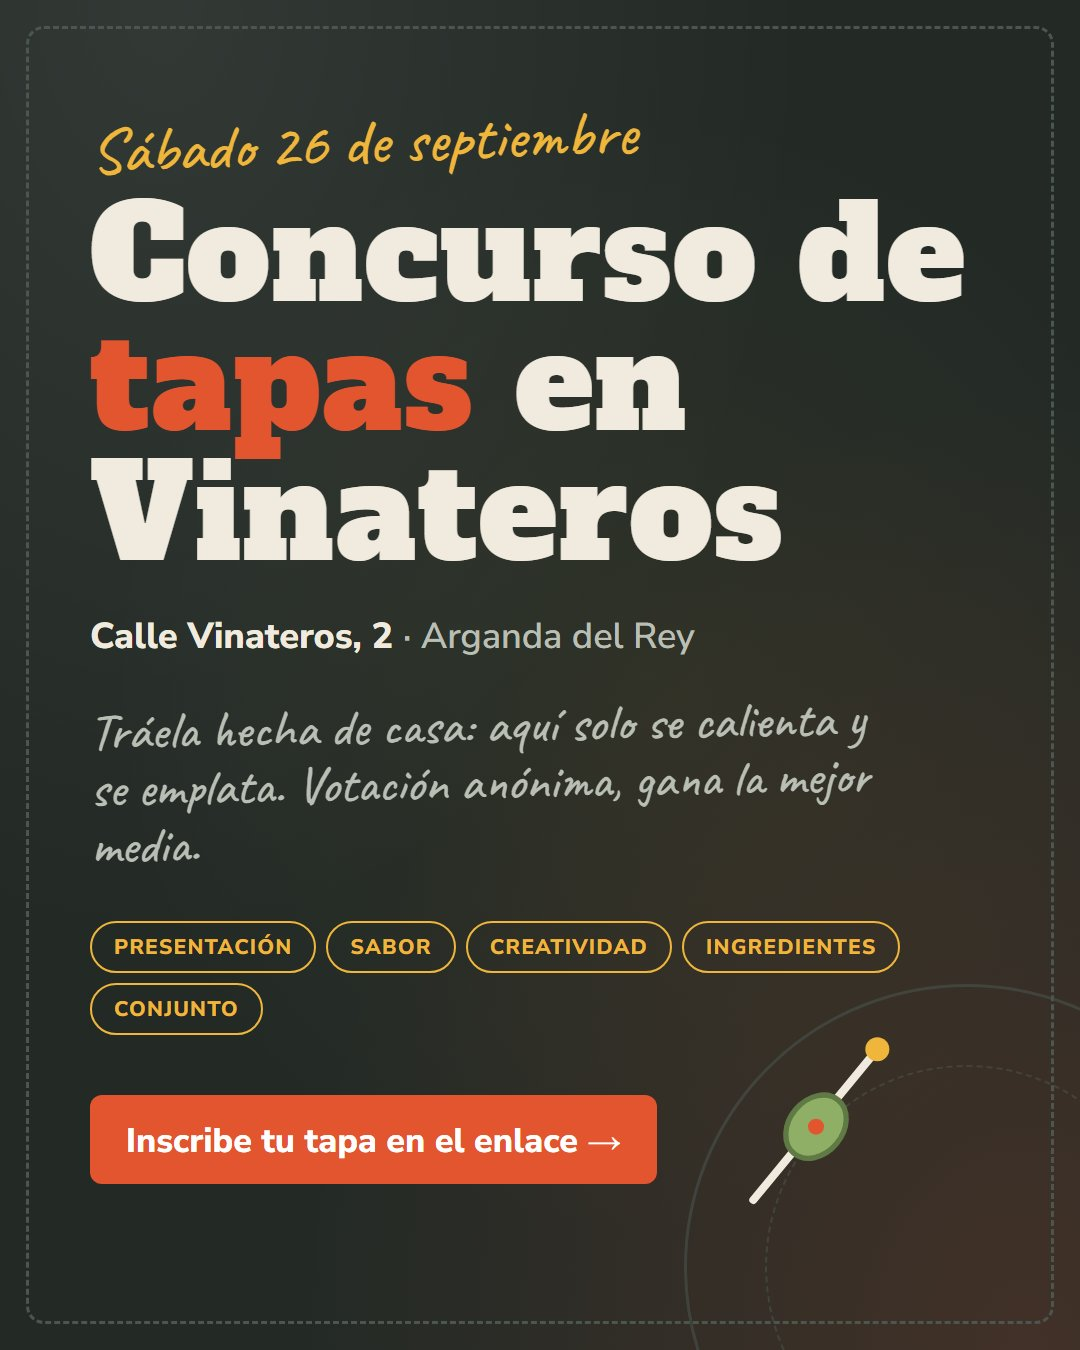
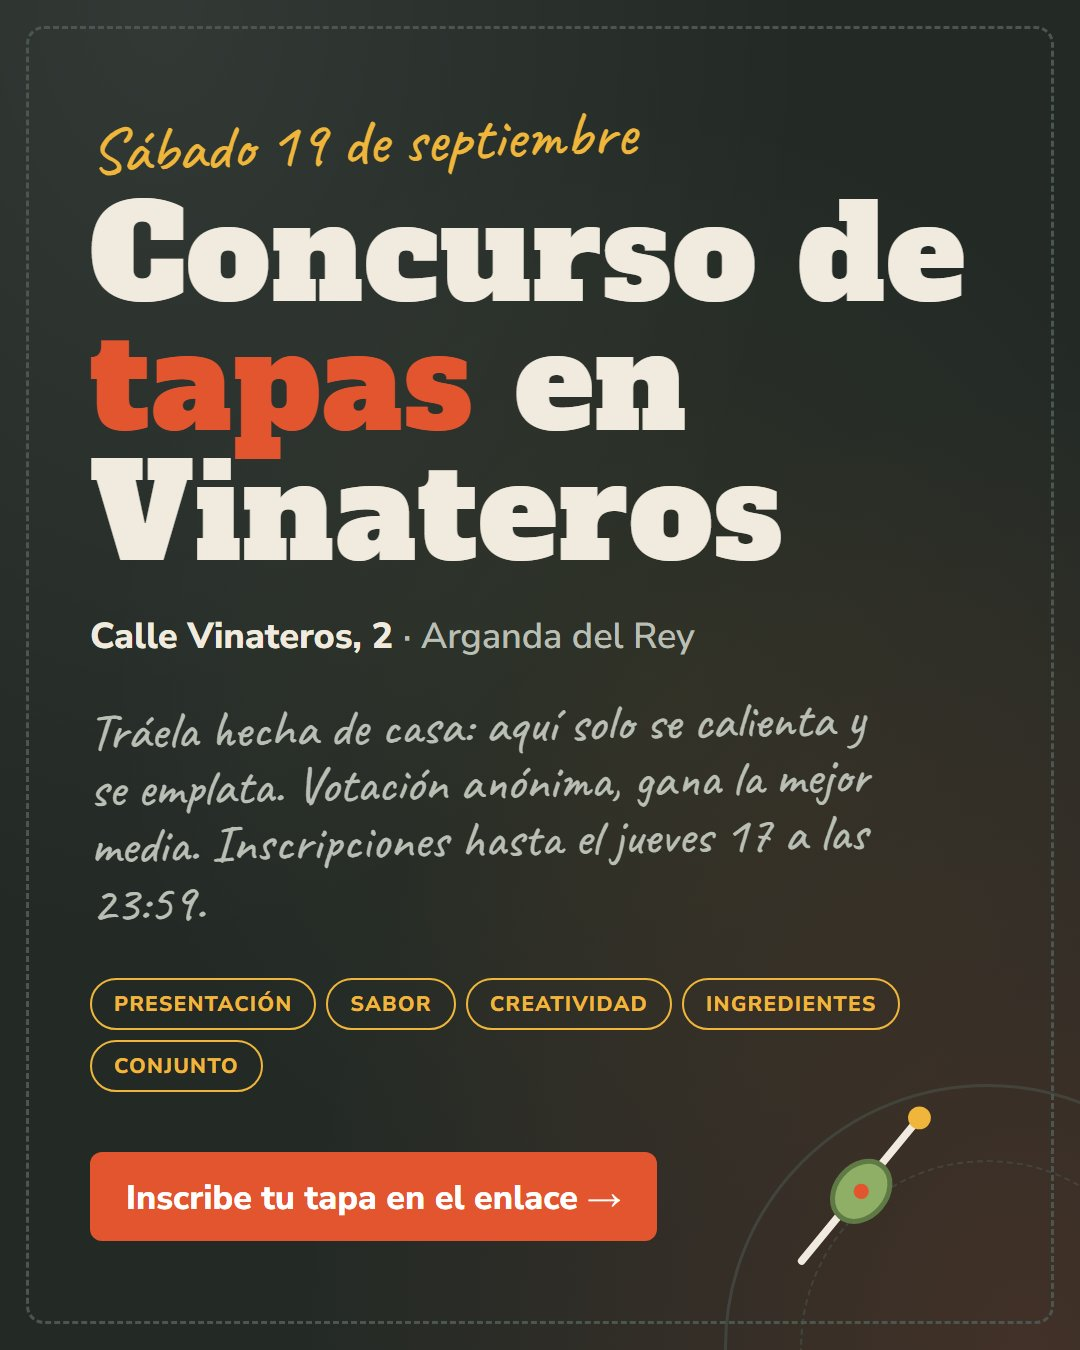
Fecha: sábado 19 de septiembre; inscripciones hasta el jueves 17 a las 23:59

diff --git a/index.html b/index.html
@@ -4,11 +4,11 @@
 <meta charset="utf-8">
 <meta name="viewport" content="width=device-width, initial-scale=1, viewport-fit=cover">
 <title>Tapas en Vinateros</title>
-<meta name="description" content="Sábado 26 de septiembre en Calle Vinateros, 2 (Arganda del Rey). Inscribe tu tapa, vota de forma anónima y descubre la ganadora.">
+<meta name="description" content="Sábado 19 de septiembre en Calle Vinateros, 2 (Arganda del Rey). Inscribe tu tapa, vota de forma anónima y descubre la ganadora.">
 <meta property="og:type" content="website">
 <meta property="og:locale" content="es_ES">
 <meta property="og:site_name" content="Tapas en Vinateros">
-<meta property="og:title" content="Concurso de tapas en Vinateros · Sábado 26 de septiembre">
+<meta property="og:title" content="Concurso de tapas en Vinateros · Sábado 19 de septiembre">
 <meta property="og:description" content="Calle Vinateros, 2 · Arganda del Rey. Trae tu tapa hecha de casa, inscríbela aquí y vota. Gana la mejor media.">
 <meta property="og:url" content="https://victormendezrodriguez10.github.io/concurso-tapas/">
 <meta property="og:image" content="https://victormendezrodriguez10.github.io/concurso-tapas/flyer.jpg">
@@ -16,10 +16,10 @@
 <meta property="og:image:type" content="image/jpeg">
 <meta property="og:image:width" content="1200">
 <meta property="og:image:height" content="630">
-<meta property="og:image:alt" content="Concurso de tapas en Vinateros, sábado 26 de septiembre">
+<meta property="og:image:alt" content="Concurso de tapas en Vinateros, sábado 19 de septiembre">
 <meta name="twitter:card" content="summary_large_image">
 <meta name="twitter:title" content="Concurso de tapas en Vinateros">
-<meta name="twitter:description" content="Sábado 26 de septiembre · Calle Vinateros, 2 · Inscribe tu tapa y vota.">
+<meta name="twitter:description" content="Sábado 19 de septiembre · Calle Vinateros, 2 · Inscribe tu tapa y vota.">
 <meta name="twitter:image" content="https://victormendezrodriguez10.github.io/concurso-tapas/flyer.jpg">
 <link rel="preconnect" href="https://fonts.googleapis.com">
 <link rel="preconnect" href="https://fonts.gstatic.com" crossorigin>
@@ -216,7 +216,7 @@
 <body>
 <div class="app">
   <header class="cabecera">
-    <span class="eyebrow" id="cab-fecha">Sábado 26 de septiembre</span>
+    <span class="eyebrow" id="cab-fecha">Sábado 19 de septiembre</span>
     <h1>Concurso de <em>tapas</em> en Vinateros</h1>
     <p class="sub">Calle Vinateros, 2 · Arganda del Rey <strong id="cab-hora"></strong></p>
   </header>
@@ -233,7 +233,7 @@
       <h2>Las normas</h2>
       <ol class="normas">
         <li><span class="n">1</span><div><b>Trae tu tapa hecha de casa.</b> Solo puede faltarle calentarla y emplatarla. Aquí hay horno y microondas, no cocina para empezar de cero.</div></li>
-        <li><span class="n">2</span><div><b>Inscribe tu plato aquí antes del día 26</b> con tu nombre, cómo lo presentas y una foto. Las tapas quedan en secreto: nadie las ve hasta que el anfitrión dé comienzo al concurso.</div></li>
+        <li><span class="n">2</span><div><b>Inscribe tu plato aquí antes del jueves 17 a las 23:59</b> con tu nombre, cómo lo presentas y una foto. Después se cierra la inscripción para saber cuántas tapas hay que preparar. Las tapas quedan en secreto: nadie las ve hasta que el anfitrión dé comienzo al concurso.</div></li>
         <li><span class="n">3</span><div><b>La votación es anónima.</b> Cuando empiece la cata, cada persona puntúa todos los platos menos el suyo. Nadie ve qué nota ha puesto cada cual ni de quién es cada tapa.</div></li>
         <li><span class="n">4</span><div><b>Cuando todo el mundo haya votado,</b> el anfitrión publica los resultados: nombres, medias y la tapa ganadora.</div></li>
       </ol>
@@ -254,6 +254,7 @@
     <div class="bloque plano">
       <div class="datos">
         <div class="dato"><div class="label">Cuándo</div><div class="v" id="dato-fecha"></div></div>
+        <div class="dato"><div class="label">Inscripciones hasta</div><div class="v">Jueves 17 de septiembre<br><span class="muted" style="font-weight:400">a las 23:59</span></div></div>
         <div class="dato"><div class="label">Dónde</div><div class="v"><a href="https://maps.google.com/?q=Calle+Vinateros+2,+Arganda+del+Rey" target="_blank" rel="noopener">Calle Vinateros, 2<br>Arganda del Rey</a></div></div>
       </div>
       <div class="fila" style="margin-top:14px">
@@ -266,6 +267,7 @@
   <section class="vista" id="v-platos">
     <div class="bloque" id="bloque-inscripcion">
       <h2 id="insc-titulo">Inscribe tu tapa</h2>
+      <p class="aviso small" id="insc-plazo">Plazo de inscripción: hasta el <b id="insc-plazo-txt"></b>. Después solo podrás editar la tuya.</p>
       <form id="form-insc" autocomplete="off">
         <div class="campo">
           <label for="f-nombre">Tu nombre</label>
@@ -409,9 +411,11 @@
    CONFIGURACIÓN DEL CONCURSO (edita aquí lo que quieras)
    ========================================================== */
 const EVENTO = {
-  fecha: "Sábado 26 de septiembre de 2026",
-  fechaCorta: "Sábado 26 de septiembre",
+  fecha: "Sábado 19 de septiembre de 2026",
+  fechaCorta: "Sábado 19 de septiembre",
   hora: "",                        // Ej.: "a partir de las 14:00". Déjalo vacío si no quieres mostrarlo.
+  cierreInscripcion: "2026-09-17T23:59:59+02:00", // Jueves 17 de septiembre a las 23:59 (hora de España). Después nadie nuevo puede inscribirse.
+  cierreTexto: "jueves 17 a las 23:59",
   codigoAnfitrion: "VINATEROS",    // Código para el panel del anfitrión. Cámbialo.
 };
 
@@ -518,7 +522,8 @@ const todosHanVotado = () => { const l = lista(); return l.length >= 2 && l.ever
 const fase = () => D.estado.fase || "inscripcion";
 const cataAbierta = () => fase() === "cata";
 const resultadosAbiertos = () => fase() === "resultados";
-const inscripcionCerrada = () => fase() !== "inscripcion";
+const plazoVencido = () => Date.now() > new Date(EVENTO.cierreInscripcion).getTime();
+const inscripcionCerrada = () => fase() !== "inscripcion" || plazoVencido();
 
 function toast(msg){ const t = $("#toast"); t.textContent = msg; t.classList.add("on"); clearTimeout(toast._t); toast._t = setTimeout(() => t.classList.remove("on"), 2600); }
 
@@ -565,7 +570,7 @@ $("#form-insc").addEventListener("submit", async e => {
   e.preventDefault();
   const nombre = $("#f-nombre").value.trim(), plato = $("#f-plato").value.trim(), desc = $("#f-desc").value.trim(), pin = $("#f-pin").value.trim();
   if (!/^\d{4}$/.test(pin)) return toast("El PIN son 4 cifras.");
-  if (!editando && inscripcionCerrada()) return toast("Las inscripciones están cerradas.");
+  if (!editando && inscripcionCerrada()) return toast(plazoVencido() ? `El plazo terminó el ${EVENTO.cierreTexto}.` : "Las inscripciones están cerradas.");
   const id = editando ? yo : uid();
   const previo = editando ? D.participantes[yo] : null;
   const p = { nombre, plato, desc, pin, foto: fotoActual || (previo && previo.foto) || "", creado: previo ? previo.creado : Date.now() };
@@ -632,8 +637,9 @@ function render(){
   $("#det-recuperar").hidden = editando;
   if (!mio && !editando && inscripcionCerrada()) {
     $("#form-insc").hidden = true;
-    if (!$("#insc-cerrada")) $("#insc-titulo").insertAdjacentHTML("afterend", `<p class="aviso rojo" id="insc-cerrada">El concurso ya ha empezado y las inscripciones están cerradas. Si ya te habías inscrito, recupera tu inscripción más abajo.</p>`);
+    if (!$("#insc-cerrada")) $("#insc-titulo").insertAdjacentHTML("afterend", `<p class="aviso rojo" id="insc-cerrada">${fase() !== "inscripcion" ? "El concurso ya ha empezado y las inscripciones están cerradas." : `El plazo de inscripción terminó el ${esc(EVENTO.cierreTexto)}.`} Si ya te habías inscrito, recupera tu inscripción más abajo.</p>`);
   } else { $("#form-insc").hidden = false; const a = $("#insc-cerrada"); if (a) a.remove(); }
+  $("#insc-plazo").hidden = editando || inscripcionCerrada();
   if (mio && !editando) $("#mi-plato").innerHTML = tarjetaPlato({...mio});
   renderRecuperar();
 
@@ -718,7 +724,7 @@ const f1 = x => (Math.round(x*10)/10).toLocaleString("es-ES", {minimumFractionDi
 function renderResultados(){
   const abiertos = resultadosAbiertos();
   $("#res-bloqueado").hidden = abiertos; $("#res-abierto").hidden = !abiertos;
-  $("#res-titulo").textContent = cataAbierta() ? "Aún no hay resultados" : "Los resultados se publican el día 26";
+  $("#res-titulo").textContent = cataAbierta() ? "Aún no hay resultados" : "Los resultados se publican el día 19";
   const ps = lista();
   if (!abiertos) {
     const completos = ps.filter(p => votoCompleto(p.id)).length;
@@ -812,6 +818,8 @@ $("#btn-compartir").addEventListener("click", async () => {
 (async function(){
   $("#cab-fecha").textContent = EVENTO.fechaCorta;
   $("#cab-hora").textContent = EVENTO.hora ? "· " + EVENTO.hora : "";
+  $("#insc-plazo-txt").textContent = EVENTO.cierreTexto;
+  setInterval(() => { if (plazoVencido() && !$("#insc-cerrada") && !(yo && D.participantes[yo])) render(); }, 60000);
   $("#dato-fecha").innerHTML = esc(EVENTO.fecha) + (EVENTO.hora ? `<br><span class="muted" style="font-weight:400">${esc(EVENTO.hora)}</span>` : "");
   try { almacen = FIREBASE_CONFIG ? await crearAlmacenNube(FIREBASE_CONFIG) : crearAlmacenLocal(); }
   catch(e){ toast("No se pudo conectar con la nube. Usando modo local."); almacen = crearAlmacenLocal(); }

diff --git a/flyer.html b/flyer.html
@@ -55,21 +55,21 @@
   .v .tag{font-size:21px; padding:10px 22px}
   .v .cta{font-size:34px; margin-top:60px; padding:20px 36px}
   .v .nota{font-size:52px; margin-top:34px; max-width:800px; transform:rotate(-1deg)}
-  .v .plato{width:560px; height:560px; right:-170px; bottom:-200px}
-  .v .oliva{right:160px; bottom:130px; width:200px}
+  .v .plato{width:520px; height:520px; right:-170px; bottom:-260px}
+  .v .oliva{right:120px; bottom:70px; width:190px}
 </style>
 </head>
 <body>
 <div class="lienzo h" id="h">
   <div class="marco"></div>
-  <span class="eyebrow">Sábado 26 de septiembre</span>
+  <span class="eyebrow">Sábado 19 de septiembre</span>
   <h1>Concurso de <em>tapas</em> en Vinateros</h1>
   <p class="dir"><b>Calle Vinateros, 2</b> · Arganda del Rey</p>
   <div class="tags">
     <span class="tag on">Presentación</span><span class="tag on">Sabor</span><span class="tag on">Creatividad</span><span class="tag on">Ingredientes</span><span class="tag on">Conjunto</span>
   </div>
   <p class="nota">Tráela hecha de casa, aquí solo se calienta y se emplata</p>
-  <span class="cta">Inscribe tu tapa y vota →</span>
+  <span class="cta">Apúntate antes del jueves 17 →</span>
   <div class="plato"></div>
   <svg class="oliva" viewBox="0 0 150 150" fill="none" stroke-linecap="round">
     <line x1="25" y1="135" x2="118" y2="22" stroke="#f1ebdf" stroke-width="6"/>
@@ -81,10 +81,10 @@
 
 <div class="lienzo v" id="v">
   <div class="marco"></div>
-  <span class="eyebrow">Sábado 26 de septiembre</span>
+  <span class="eyebrow">Sábado 19 de septiembre</span>
   <h1>Concurso de <em>tapas</em> en Vinateros</h1>
   <p class="dir"><b>Calle Vinateros, 2</b> · Arganda del Rey</p>
-  <p class="nota">Tráela hecha de casa: aquí solo se calienta y se emplata. Votación anónima, gana la mejor media.</p>
+  <p class="nota">Tráela hecha de casa: aquí solo se calienta y se emplata. Votación anónima, gana la mejor media. Inscripciones hasta el jueves 17 a las 23:59.</p>
   <div class="tags">
     <span class="tag on">Presentación</span><span class="tag on">Sabor</span><span class="tag on">Creatividad</span><span class="tag on">Ingredientes</span><span class="tag on">Conjunto</span>
   </div>

diff --git a/LEEME.md b/LEEME.md
@@ -1,12 +1,12 @@
 # Concurso de tapas en Vinateros
 
-Web para el concurso del sábado 26 de septiembre de 2026 en Calle Vinateros, 2 (Arganda del Rey).
+Web para el concurso del sábado 19 de septiembre de 2026 en Calle Vinateros, 2 (Arganda del Rey).
 
 Todo está en `index.html`. Funciona de dos maneras:
 
 - **Modo local** (tal como está ahora): los datos se guardan solo en el navegador donde se abre.
   Sirve para probarla y también para hacer el concurso con un único móvil que se va pasando
-  (cada persona se inscribe, y luego usa "Cambiar de persona" y "Recupera tu inscripción" con su PIN).
+  (cada persona se inscribe y recupera su perfil con "Recupera tu inscripción" y su PIN).
 - **Modo nube** (recomendado para que cada amigo use su móvil): hace falta un proyecto gratuito de
   Firebase. Son unos 10 minutos. Pasos abajo.
 
@@ -76,10 +76,10 @@ con un mensajito.
 El concurso pasa por tres fases. Se cambian desde el **panel del anfitrión** (pestaña Resultados,
 abajo del todo, con tu código) y el cambio llega al momento a todos los móviles.
 
-1. **Inscripción** (desde ya hasta el día 26). Cada persona abre el enlace, entra en **Tapas** y se
+1. **Inscripción** (desde ya hasta el jueves 17 a las 23:59; después la web cierra sola la inscripción). Cada persona abre el enlace, entra en **Tapas** y se
    inscribe con nombre, nombre del plato, presentación, foto y un PIN de 4 cifras. Las tapas de los
    demás no se ven: solo cuántas hay. Cada uno puede editar la suya hasta que empiece el concurso.
-2. **Cata**. El día 26 pulsas **Empezar el concurso**: se cierran las inscripciones, se revelan las
+2. **Cata**. El día 19 pulsas **Empezar el concurso**: se cierran las inscripciones, se revelan las
    tapas (sin decir de quién es cada una) y se abre la ficha de **Votar**. Cada persona puntúa cada
    tapa menos la suya. En Resultados solo se ve quién ha votado ya y a quién le falta.
 3. **Resultados**. Cuando todos han votado pulsas **Publicar resultados** y todo el mundo ve la tapa
